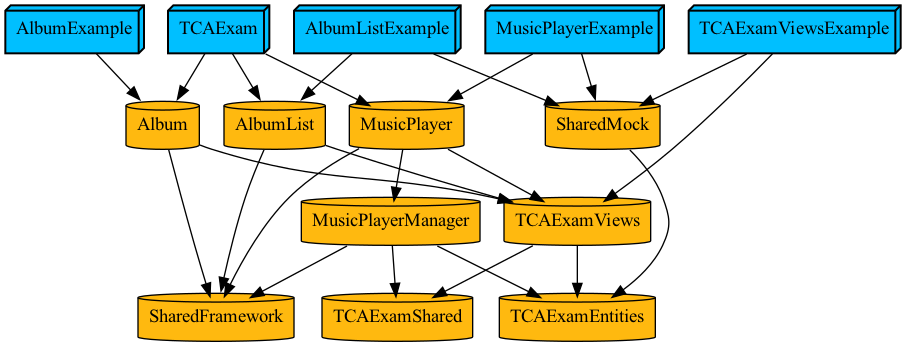
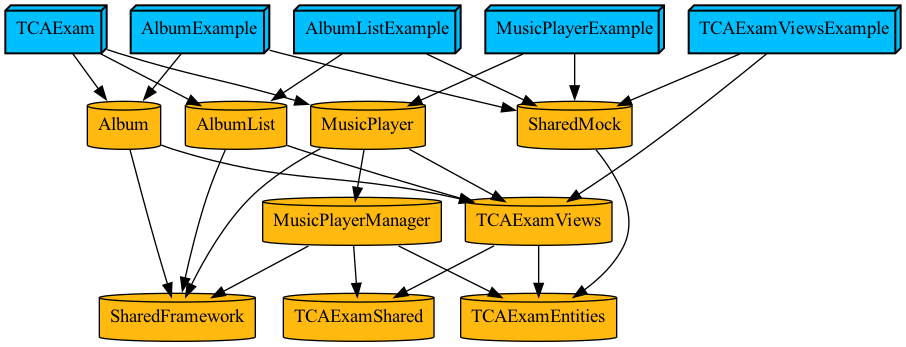
디펜던시 정리 및 코드 정리

diff --git a/Projects/Features/Album/Project.swift b/Projects/Features/Album/Project.swift
@@ -41,7 +41,8 @@ let project = Project(
             ),
             sources: ["Example/Sources/**"],
             dependencies: [
-                .target(name: "Album")
+                .target(name: "Album"),
+                .Project.Shared.Mock.sharedMock
             ],
             settings: .swift6
         )

diff --git a/Projects/Features/Album/Example/Sources/AlbumListExmapleApp.swift b/Projects/Features/Album/Example/Sources/AlbumListExmapleApp.swift
@@ -15,7 +15,6 @@ import Album
 struct AlbumListExmapleApp: App {
 
     var body: some Scene {
-        let what = Album.mockAlbumList.first!
         WindowGroup {
             if ProcessInfo.processInfo.environment["XCTestConfigurationFilePath"] != nil {
                 Text("테스트 중입니다")
